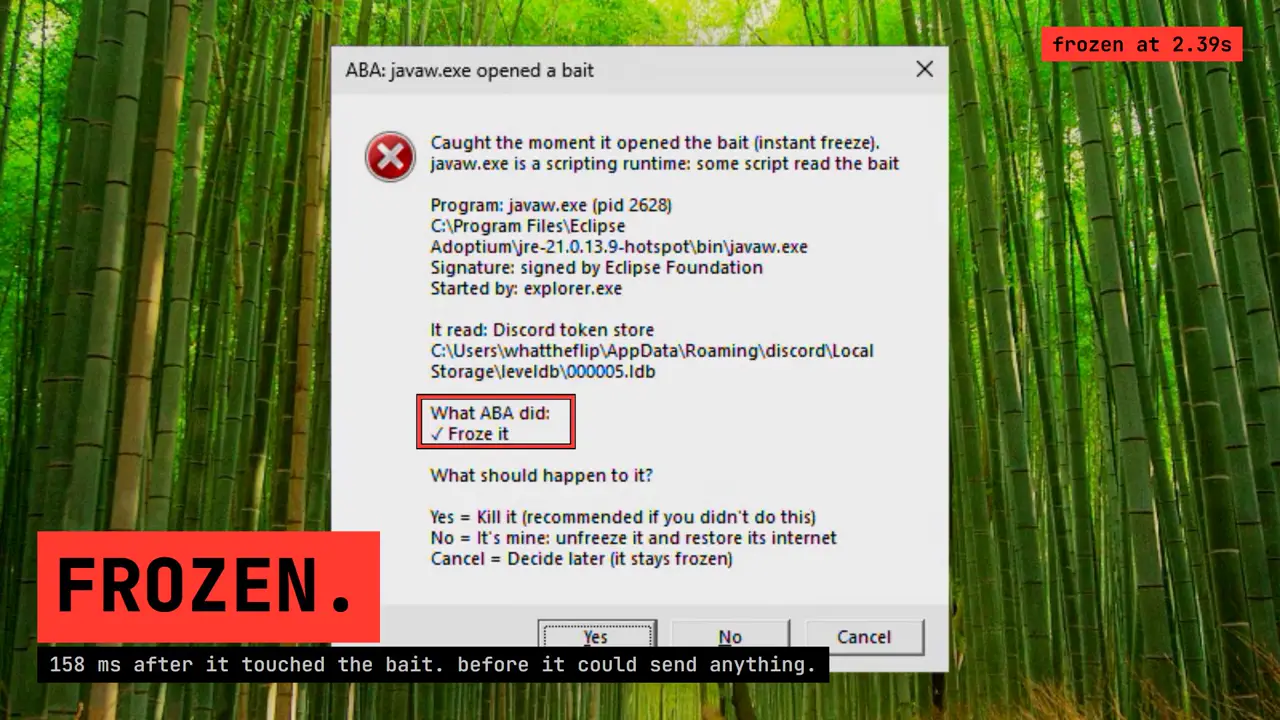
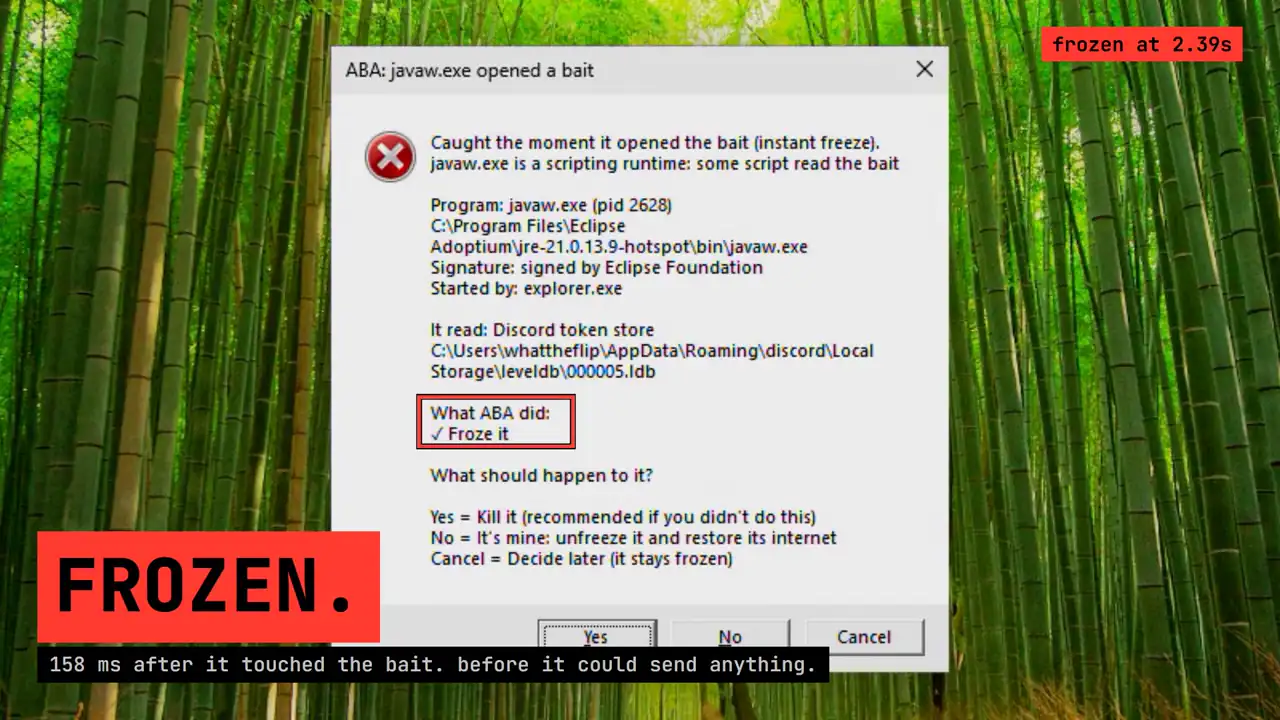
Website v2: overlays sit on the hit row, smaller poster, header cleanup

diff --git a/site/js/site.js b/site/js/site.js
@@ -188,10 +188,13 @@
       modal.style.top = modal.style.bottom = stamp.style.top = "";
     }
 
+    // Where a row sits inside the window, in px (offsetTop would be relative to its folder group).
+    function relTop(li) { return li.getBoundingClientRect().top - win.getBoundingClientRect().top - win.clientTop; }
+
     // Put an overlay (stamp, alert) next to the row that was hit, inside the
     // window, and make sure the visitor can see it.
     function placeNear(node, li, mode) {
-      var wh = win.clientHeight, top = li.offsetTop + $(".f-btn", li).offsetTop, rh = li.offsetHeight, nh = node.offsetHeight;
+      var wh = win.clientHeight, top = relTop(li), rh = li.offsetHeight, nh = node.offsetHeight;
       var y;
       if (mode === "center") y = Math.max(nh / 2 + 50, Math.min(wh - nh / 2 - 20, top + rh / 2));
       else { y = top + rh + 10; if (y + nh > wh - 12) y = top - nh - 10; y = Math.max(12, Math.min(wh - nh - 12, y)); }
@@ -224,7 +227,7 @@
     function toast(msg, ms, li) {
       var old = $(".heist-toast", root); if (old) old.remove();
       var t = el("div", "heist-toast", msg); win.appendChild(t);
-      if (li) t.style.top = Math.min(win.clientHeight - t.offsetHeight - 12, li.offsetTop + li.offsetHeight + 6) + "px";
+      if (li) t.style.top = Math.min(win.clientHeight - t.offsetHeight - 12, relTop(li) + li.offsetHeight + 6) + "px";
       setTimeout(function () { if (t.parentNode) t.remove(); }, ms || 3200);
     }
 
